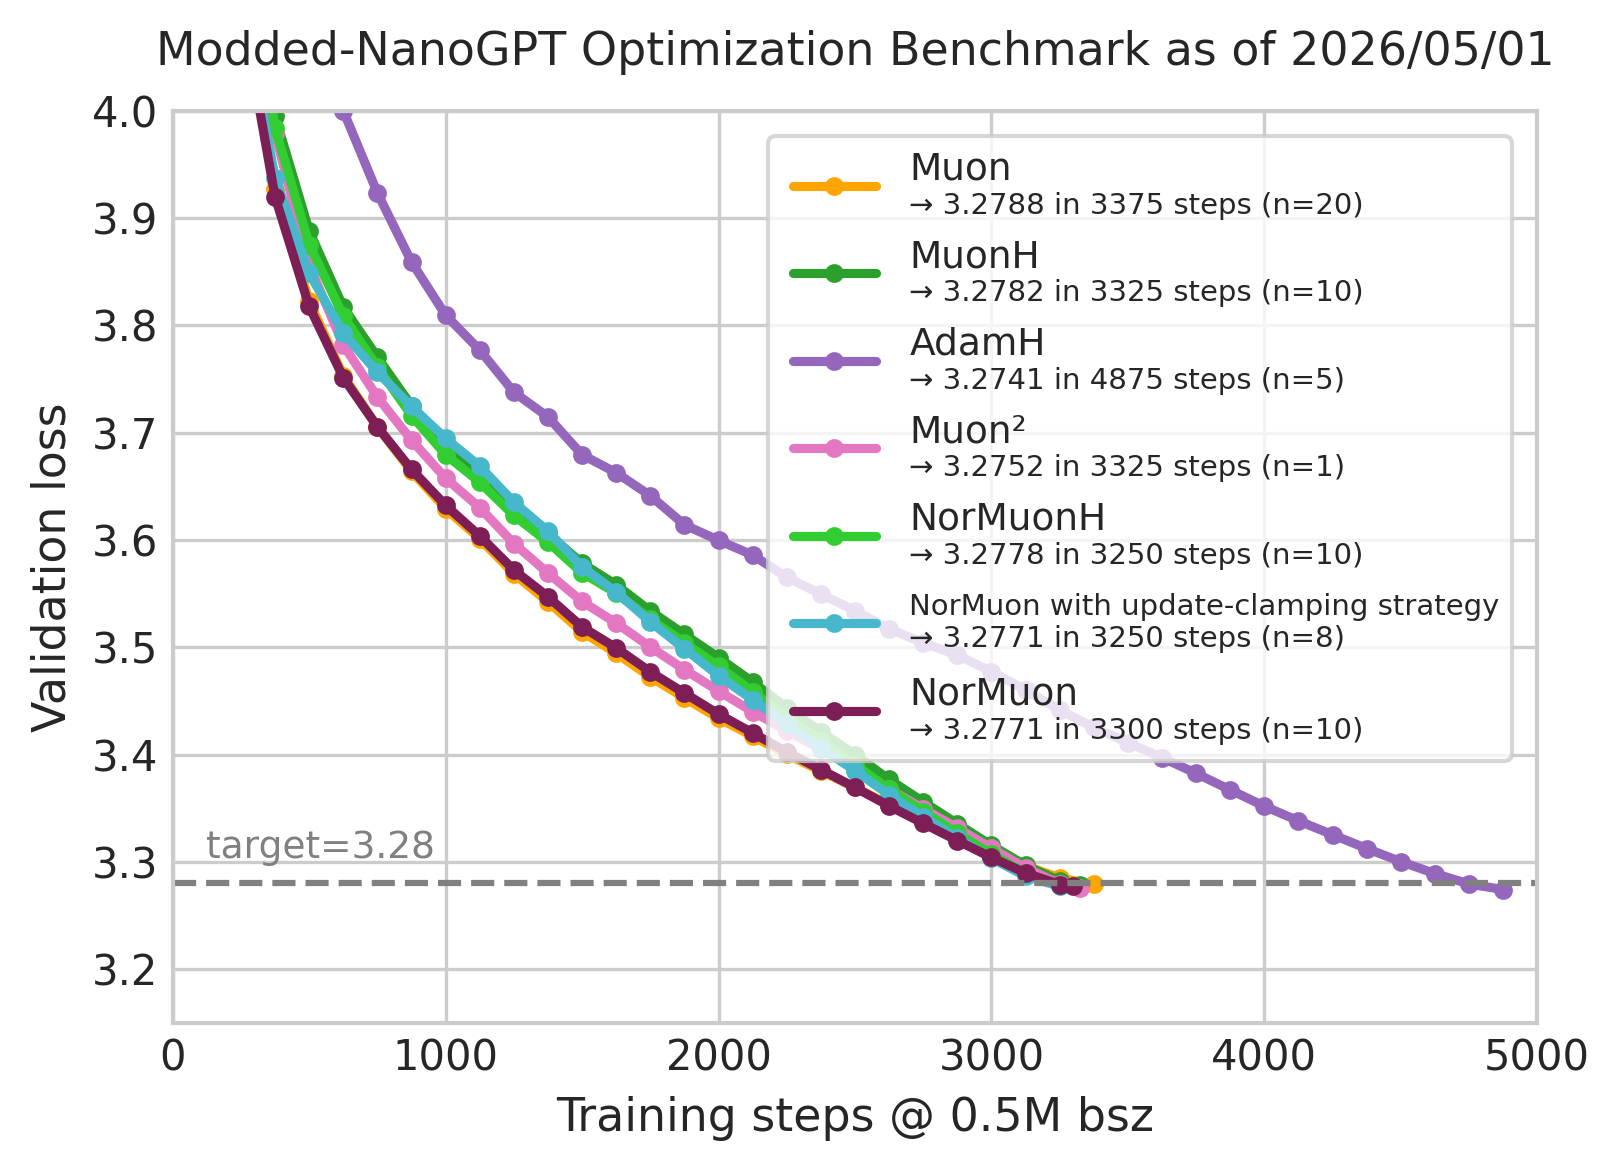
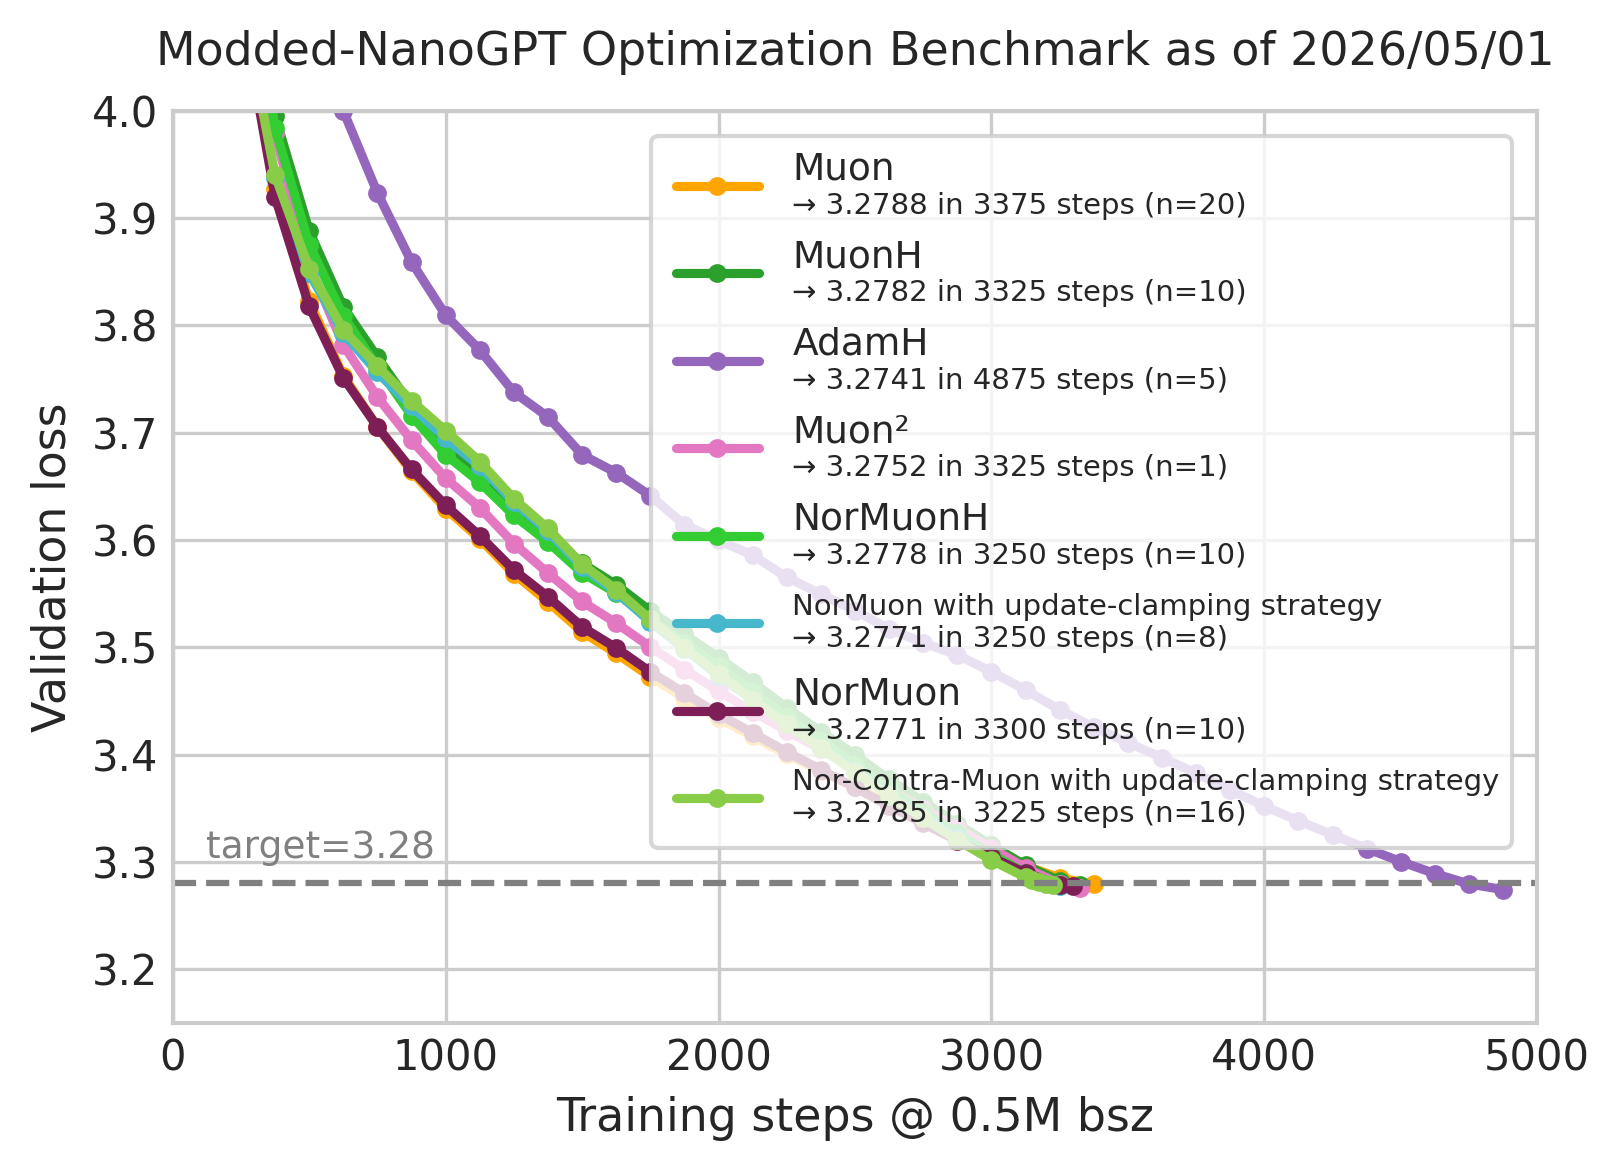
.

diff --git a/records/track_3_optimization/make_figures.py b/records/track_3_optimization/make_figures.py
@@ -21,6 +21,7 @@ logfiles = {
     8: ('NorMuonH', '#32CD32'),
     9: 'NorMuon with update-clamping strategy',
     10: ('NorMuon', '#7e1e56'),
+    11: 'Nor-Contra-Muon with update-clamping strategy',
 }
 readme_rows = {}
 row_pattern = re.compile(

diff --git a/records/track_3_optimization/README.md b/records/track_3_optimization/README.md
@@ -37,7 +37,8 @@ which the PR appeared.
 | 7 | 3325 | 3.2752 (n=1)✓ | [Muon²](https://arxiv.org/abs/2604.09967) with aux Adam, lr=.10 wd=.0125 β₂=.95 ε=1e-10 | 2026/04/29 | [log](results/20260501_muonsq/bb903816-ea27-4f5f-8028-c963d38c6a7f.txt) | [PR](https://github.com/KellerJordan/modded-nanogpt/pull/266) | @wilsoncwu |
 | 8 | 3250 | 3.2778 (n=10)✓ | [NorMuon](https://arxiv.org/abs/2510.05491)[H](https://psychedelic-sunstone-851.notion.site/Fantastic-Pretraining-Optimizers-and-Where-to-Find-Them-2-1-Hyperball-Optimization-2e924306e6f280e7a5ffee00eb40a0dd) (Muon NS direction + Adafactor-style row/col variance preconditioning, then hyperball constraint on hidden matrices) with per-module init std (attn.proj std=.026, mlp.proj std=.031, mlp.fc std=.031, qkv default), lr=.018 mu=0.95 beta2=0.95 h_cooldown_frac=1.0 aux_cooldown_frac=.4 | 2026/04/30 | [log](results/20260430_normuonh/f45b5dcf-16bb-4e83-b5c7-4ef4981f0e9f.txt)| [PR](https://github.com/KellerJordan/modded-nanogpt/pull/273) | @kaiyue-wen |
 | 9 | 3250 | 3.2771 (n=8)✓ | NorMuon with aux Adam + u/w-floor (wd-free strategy that clamps ‖u‖\_F / ‖w‖\_F to 0.35), lr=.0375 | 2026/04/29 | [log](results/20260501_skylight001/f78af80a-2ba3-4cf7-b9f7-e6e56ff2c54d.txt) | [PR](https://github.com/KellerJordan/modded-nanogpt/pull/274) | @kumarkrishna |
-| 10 | 3300 | 3.2771 (n=10)✓ | NorMuon lr=0.035 wd=0.025 | 2026/04/03 | [log](results/e0d0185f-ccb8-426d-8265-a4e762ec69f6.txt) | [PR](https://github.com/KellerJordan/modded-nanogpt/pull/276) | @lliu606 |
+| 10 | 3300 | 3.2771 (n=10)✓ | NorMuon lr=0.035 wd=0.025 | 2026/05/03 | [log](results/e0d0185f-ccb8-426d-8265-a4e762ec69f6.txt) | [PR](https://github.com/KellerJordan/modded-nanogpt/pull/276) | @lliu606 |
+| 11 | 3225 | 3.2785 (n=16)✓ | Setup from #9 plus [Contra-Muon](https://github.com/nilin/contra-muon) method | 2026/05/01 | [log](results/20260501_contra_muon/08cd60f9-99e2-4e28-b1ac-19136dd42a05.txt) | [PR](https://github.com/KellerJordan/modded-nanogpt/pull/275) | @nilin |
 
 <table>
   <tr>
